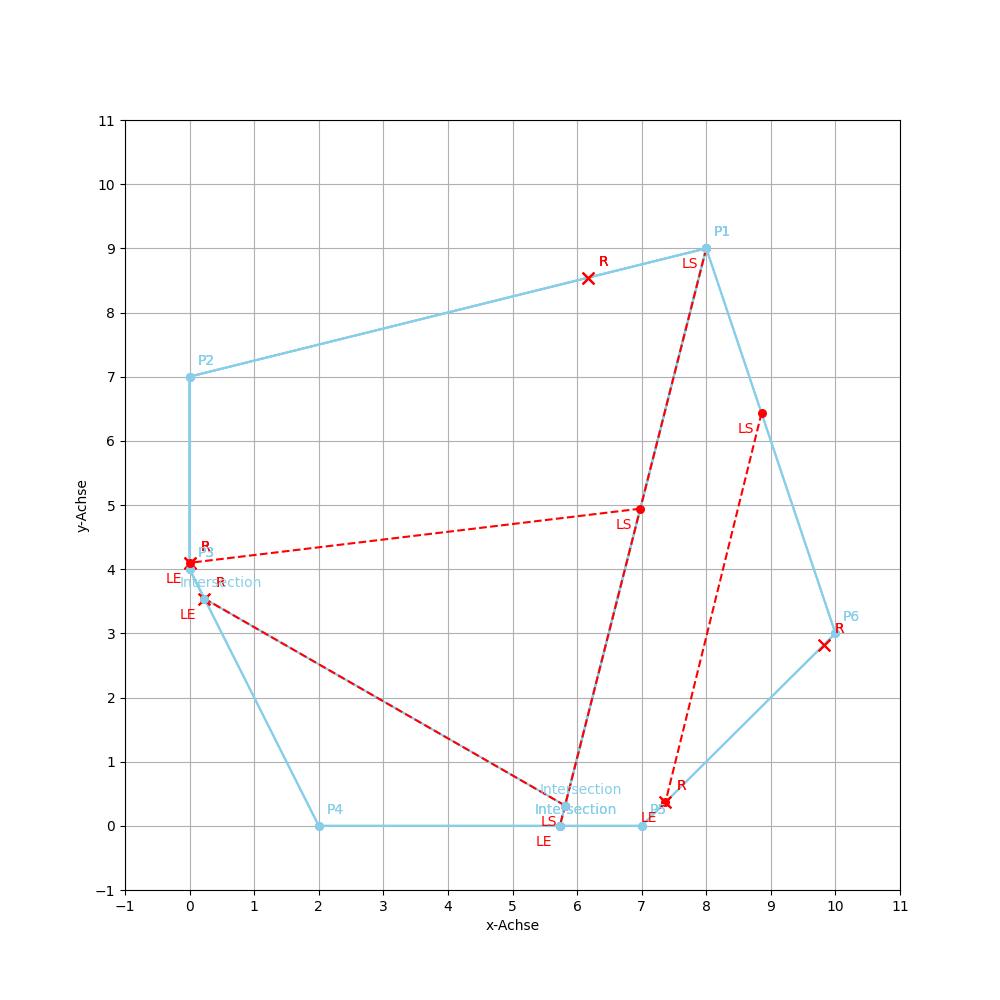
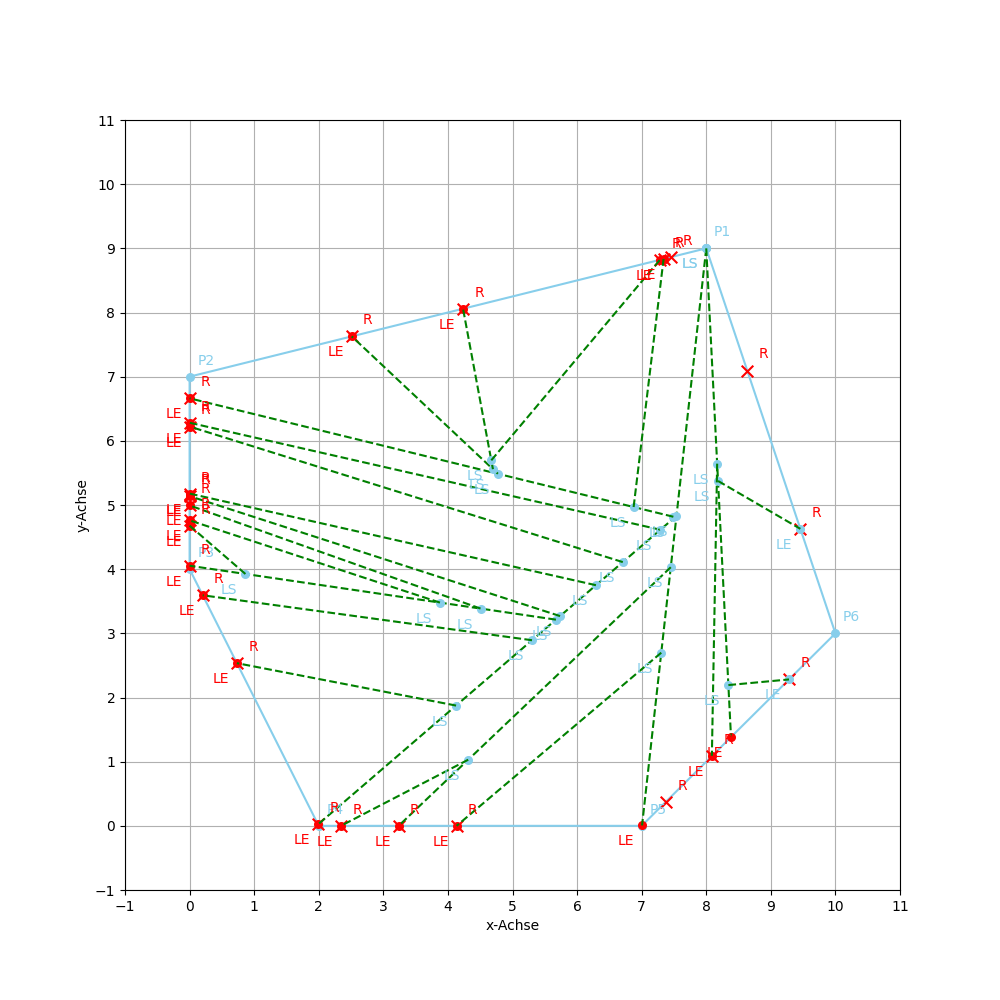
First stable implementation

diff --git a/Code/ConvexDivide/main.py b/Code/ConvexDivide/main.py
@@ -8,7 +8,7 @@ from external import move, numSites, cut
 import random
 import numpy as np
 
-step = 0.001
+step = 0.005
 if __name__ == '__main__':
 
     # Initialize plot
@@ -24,19 +24,19 @@ if __name__ == '__main__':
     ax.set_ylabel('y-Achse')
 
     P_init = Problem(V=[Point(8, 9, "P1"), Point(0, 7, "P2"), Point(0, 4, "P3"), Point(2, 0, "P4"), Point(7, 0, "P5"), Point(10, 3, "P6")], S=[])
-    num = 5
+    num = 25
     while num > 0:
         P_init.addRandomSite()
         num -= 1
 
-#    P_init.addSite(Site(4, 8, "S1", 0.6))
-#    P_init.addSite(Site(0, 5, "S3", 0.1))
-#    P_init.addSite(Site(9, 6, "S2", 0.4))
-
-    #P_init = Problem(V=[Point(8, 9, "P1"), Point(0, 7, "P2"), Point(0, 4, "P3")], S=[Site(3.9128,7.9782,"xx", 0.180), Site(0.7864, 7.1966,"xx", 0.04230), Site(0, 5.02371, "xx", 0.1694)])
-    #P_init = Problem(V=[Point(8, 9, "P1"), Point(0, 7, "P2"), Point(0, 5.3037, "P3")], S=[Site(3.9128, 7.9782, "xx", 0.0971), Site(0.7864, 7.1966, "xx", 0.1902)])
+    #P_init.addSite(Site(9.040388907932856, 2.040388907932856, "S1", 0.05218424718859099))
+    #P_init.addSite(Site(9.42012025961265,2.42012025961265, "S2", 0.9478157528114091))
 
     P_init.normalize()
+
+    P_init.plotV(color="skyblue")
+    [s.plot(marker="x", size=70) for s in P_init.S]  # Plot sites
+    plt.savefig('polygon.png')
 
     for s in P_init.S:
         print(s)
@@ -44,9 +44,10 @@ if __name__ == '__main__':
     openProblems = []
     finishedProblems = []
     openProblems.append(P_init)
-
+    pl = 0
     while len(openProblems) > 0:   # As long as there are Problems with more than one Site
-
+        print(pl)
+        pl += 1
         P = openProblems.pop()
 
         # Input
@@ -54,16 +55,15 @@ if __name__ == '__main__':
         V = P.V
         S = P.S
 
-        [s.plot("r", marker="x", size=70) for s in S]   # Plot sites
-        P.plotV(color = "skyblue")
-        #plt.savefig('polygon.png')
-        LS = W[0].copy("LS")
+
+
+        LS = Point(W[0].x, W[0].y, "LS")
 
         # Find first site in W and copy it to new point "LE", k0 = index of first site
         k0 = 0
         for w in W:
             if w.type() == "Site":
-                LE = w.copy("LE")
+                LE = Point(w.x, w.y, "LE")
                 break
             k0 += 1              # index of first site
 
@@ -92,24 +92,16 @@ if __name__ == '__main__':
                 LS = move(LS, V, "CCW", step)
                 V_PrL = cut(V, LS, LE)
                 PrL = Problem(V = V_PrL[0], S = PrL.S)
-
         elif LE.equal(S[-1]) and PrL.area() < PrL.requiredArea(P.area()):
             while PrL.area() < PrL.requiredArea(P.area()):
                 LS = move(LS, V, "CW", step)
                 V_PrL = cut(V, LS, LE)
                 PrL = Problem(V = V_PrL[0], S = PrL.S)
-                prlarea = PrL.area()
-                prlreq = PrL.requiredArea(P.area())
-
         else:
             while PrL.area() > PrL.requiredArea(P.area()):
-                prlarea = PrL.area()
-                prlreq = PrL.requiredArea(P.area())
                 LE = move(LE, V, "CW", step)
                 V_PrL = cut(V, LS, LE)
                 PrL = Problem(V = V_PrL[0], S = PrL.S)
-                prlarea = PrL.area()
-                prlreq = PrL.requiredArea(P.area())
 
         V_PrL, V_PlL = cut(V, LS, LE)
 
@@ -130,7 +122,8 @@ if __name__ == '__main__':
             finishedProblems.append(P2)
 
         L = Line(LS, LE)
-        L.plot(color = "r")
+        L.plot()
 
         # Save figure
         plt.savefig('polygon.png')
+    #plt.show()

diff --git a/Code/ConvexDivide/objects/problem.py b/Code/ConvexDivide/objects/problem.py
@@ -28,18 +28,6 @@ class Problem:
 
         elif self.W == None and self.V != None and self.S != None:  # init with V and S
             self.updateW()
-            #pass
-            #tmpS = self.S.copy()
-            #num_pts = len(self.V)
-            #tmp = []
-            #for i, v in enumerate(self.V):
-            #    tmp.append(v)
-            #    for j, s in enumerate(tmpS):
-            #        if side(s, v, self.V[(i + 1) % num_pts]) == "o":
-            #            tmp.append(s)
-            #            tmpS.pop(j)
-            #            break
-            #self.W = tmp
 
         else:
             # not defined
@@ -56,18 +44,6 @@ class Problem:
 
         for s in self.S:
             s.c = s.c / sum
-
-    def shuffle(self):
-        num_pts = len(self.W)
-        r = random.randint(0, num_pts)
-        print(r)
-        print(self.W)
-        for i in range(r):
-            self.W.append(self.W.pop(0))
-        print(self.W)
-        print("")
-        self.V = [x for x in self.W if x.type() == "Point"]
-        self.S = [x for x in self.W if x.type() == "Site"]
 
     def area(self):
         x = [p.x for p in self.V]
@@ -96,32 +72,35 @@ class Problem:
 
     def plotV(self, **kwargs):
 
-        color = kwargs.get('color', "k")
+        col = kwargs.get('color', "k")
 
         xs = [p.x for p in self.V]
         ys = [p.y for p in self.V]
 
         xs.append(xs[0])
         ys.append(ys[0])
-        plt.plot(xs, ys, color = color, zorder=5)
+        plt.plot(xs, ys, color = col, zorder=5)
 
         for p in self.V:
-            p.plot(color)
+            p.plot()
 
     def addRandomSite(self):
-        pos = random.randint(0, len(self.V) - 1)
-
-        pi = self.V[pos]
-        pj = self.V[(pos + 1) % len(self.V)]
+        i = random.randint(0, len(self.V) - 1)
+        j = (i + 1) % len(self.V)
+        pi = self.V[i]
+        pj = self.V[j]
 
         dec = random.random()
         x = pi.x + (pj.x - pi.x) * dec
         y = pi.y + (pj.y - pi.y) * dec
-
         dec = random.random()
-        self.S.append(Site(x, y, "R", dec))
-        self.updateW()
+        self.addSite(Site(x, y, "R", dec))
 
     def addSite(self, s):
-        self.S.append(s)
-        self.updateW()
+        for i, v in enumerate(self.W):
+            j = (i + 1) % len(self.W)
+            if side(s, self.W[i], self.W[j]) == "o":
+                if (s.x >= self.W[i].x and s.x <= self.W[j].x) or (s.x <= self.W[i].x and s.x >= self.W[j].x):
+                    self.W.insert(i + 1, s)
+                    self.S = [x for x in self.W if x.type() == "Site"]
+                    return

diff --git a/Code/ConvexDivide/external.py b/Code/ConvexDivide/external.py
@@ -9,7 +9,7 @@ import math
 import numpy as np
 
 def side(p, LS, LE):
-    epsilon = 0.03  # epsilon nicht direkt als Abstand
+    epsilon = 0.01  # epsilon nicht direkt als Abstand
     d = (p.x - LS.x)*(LE.y-LS.y)-(p.y-LS.y)*(LE.x-LS.x)
     if d > -epsilon and d < epsilon:
         return "o"
@@ -74,10 +74,16 @@ def move(p, V, direction, dist):
     i = 0
     for i in range(num_pts):
         if p.equal(V[i]):
-            on_point = True
+            if p.distance(V[i]) == 0:
+                on_point = True
+            else:
+                p.x = V[i].x
+                p.y = V[i].y
+                return p
             break
 
     if on_point == True:
+        dist = 0.02
         if direction == "CW":
             j = (i - 1 + num_pts) % num_pts
 
@@ -86,8 +92,6 @@ def move(p, V, direction, dist):
 
     elif on_point == False:
         for i, v in enumerate(V):
-            von = V[i]
-            zu = V[(i+1) % num_pts]
             s = side(p, V[i], V[(i+1) % num_pts])
             if s == "o":
                 break
@@ -99,8 +103,6 @@ def move(p, V, direction, dist):
         elif direction == "CCW":
             j = (i + 1) % num_pts
 
-
-    #if direction == "CW":
     dx = p.x - V[j].x
     dy = p.y - V[j].y
     l = math.sqrt(dx ** 2 + dy ** 2)
@@ -108,14 +110,6 @@ def move(p, V, direction, dist):
     dy = dy * (l-dist)/l
     p.x = V[j].x + dx
     p.y = V[j].y + dy
-    #elif direction == "CCW":
-    #    dx = V[i].x - V[j].x
-    #    dy = V[i].y - V[j].y
-    #    l = math.sqrt(dx ** 2 + dy ** 2)
-    #    dx = dx * (l - dist) / l
-    #    dy = dy * (l - dist) / l
-    #    p.x = V[j].x + dx
-    #    p.y = V[j].y + dy
 
     return p
 

diff --git a/Code/ConvexDivide/objects/site.py b/Code/ConvexDivide/objects/site.py
@@ -1,4 +1,5 @@
 from objects import point
+import matplotlib.pyplot as plt
 
 # Site class (inherit from Point)
 class Site(point.Point):
@@ -10,7 +11,19 @@ class Site(point.Point):
         self.areaRequired = 0.0
 
     def __repr__(self):
-        return "".join(["Site(", str(self.x), ",", str(self.y), ",", str(self.c), ")"])
+        return "".join(["Site(", str(self.x), ",", str(self.y), ",", self.name, ",", str(self.c), ")"])
 
     def type(self):
         return "Site"
+
+    def plot(self, **kwargs):
+
+        pos = kwargs.get('pos', [1, 1])
+        marker = kwargs.get('marker', "o")
+        size = kwargs.get("size", 30)
+        col = kwargs.get("col", "r")
+        plt.scatter(self.x, self.y, color = col, s = size, marker = marker, zorder=6)
+
+        delta = 0.25
+        plt.annotate(self.name, (self.x + pos[0] * delta, self.y + pos[0] * delta), ha = "center", va = "center", color = col, zorder = 11)
+        #plt.annotate(self.name + ", c = " + "{:.2f}".format(self.c), (self.x + pos[0] * delta, self.y + pos[0] * delta), ha = "center", va = "center", color = col, zorder = 11)

diff --git a/Code/ConvexDivide/objects/point.py b/Code/ConvexDivide/objects/point.py
@@ -22,8 +22,8 @@ class Point:
     def type(self):
         return "Point"
 
-    def plot(self, col, **kwargs):
-
+    def plot(self, **kwargs):
+        col = kwargs.get("col", "skyblue")
         pos = kwargs.get('pos', [1, 1])
         marker = kwargs.get('marker', "o")
         size = kwargs.get("size", 30)
@@ -40,8 +40,12 @@ class Point:
 
     def equal(self, otherPoint):
         delta = 0.01
-        if abs(self.x - otherPoint.x) < delta and abs(self.y - otherPoint.y) < delta:
+        if self.x == otherPoint.x and self.y == otherPoint.y:
             return True
+
+        if self.distance(otherPoint) < delta:
+            return True
+
         return False
 
     def notEqual(self, otherPoint):

diff --git a/Code/ConvexDivide/objects/line.py b/Code/ConvexDivide/objects/line.py
@@ -16,9 +16,9 @@ class Line:
         return "Line"
 
     def plot(self, **kwargs):
-        color = kwargs.get('color', "g")
+        col = kwargs.get('col', "g")
 
-        self.LS.plot(color, pos = [-1, -1])
-        self.LE.plot(color, pos = [-1, -1])
+        self.LS.plot(pos = [-1, -1])
+        self.LE.plot(pos = [-1, -1])
 
-        plt.plot([self.LS.x, self.LE.x], [self.LS.y, self.LE.y], color = color, linestyle = "--", zorder=6)
+        plt.plot([self.LS.x, self.LE.x], [self.LS.y, self.LE.y], color = col, linestyle = "--", zorder=6)
